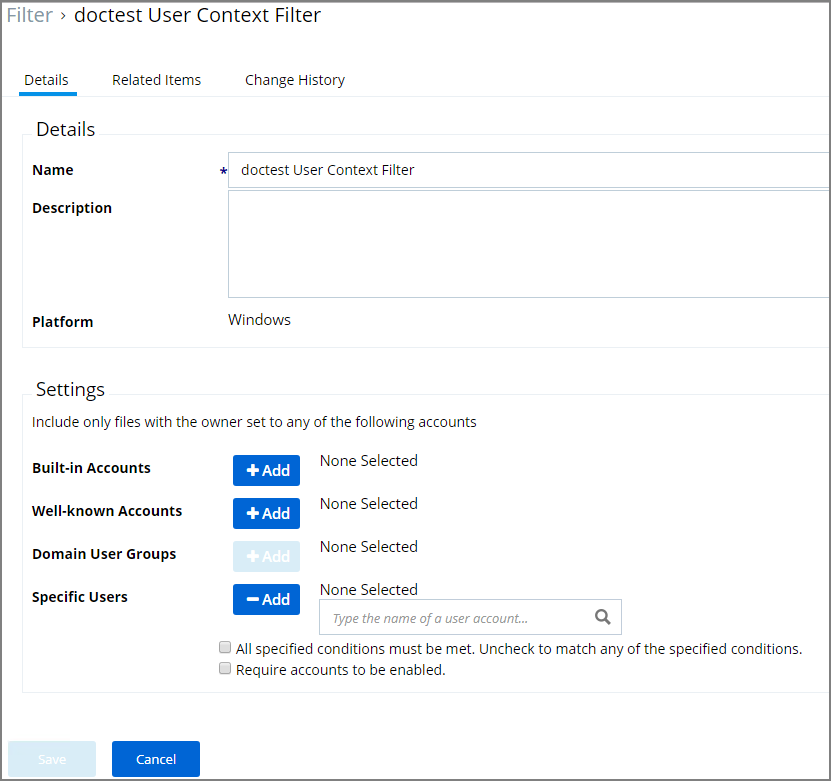
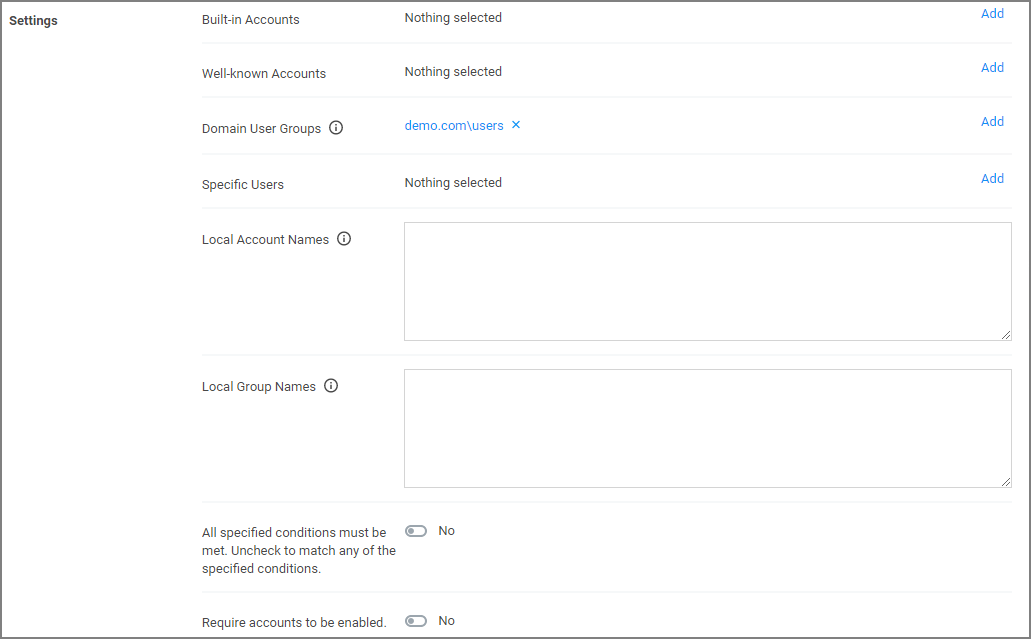
#246231: updates to user context filter topic; removed stale screen shots in the images folders

diff --git a/admin/filters/types/application/user-context.md b/admin/filters/types/application/user-context.md
@@ -1,5 +1,5 @@
 [title]: # (User Context)
-[tags]: # (sid)
+[tags]: # (sid, active directory, azure AD)
 [priority]: # (2)
 # Using User Context Filters
 
@@ -14,24 +14,36 @@ The User Context Filters are part of the Application Filter templates listed for
 
 This filter is available for both Windows and macOS systems.
 
+On Windows 10 endpoints the filter ensures that Azure AD security groups can be targeted within Windows-based User Context Filters computers that are __only__ joined to Azure AD.
+
 ## On-Premise
 
 For Privilege Manager on-premises the __User Context Filter__ can be used after the Active Directory synchronization completes. When creating and editing the filter, add any 
 
 * Build-in Accounts,
 * Well-known Accounts, and/or
-* Domain User Groups, or
-* Specific Users.
+* Domain User Groups, for which you may need to run the Active Directory sync task to update available users and groups, or
+* Specific Users,
+* Local Account Names,
+* Local Group Names
 
 to specifically select user context.
 
-Then select if __ALL__ conditions must be met. Leave the box unchecked to match __ANY__. You can also specify, if accounts must be enabled to be targeted. This is an important checkbox to set if specific users have been added.
+Then set the __All specified conditions must be met__ switch to __Yes__, if __ALL__ conditions must be met. Leave the switch set to __No__ to match __ANY__.
+
+You can also specify, if accounts must be enabled to be targeted. This is an important checkbox to set if specific users have been added.
 
 ## Cloud
 
-For Privilege Manager cloud the __User Context Filter via SID__ can be used if (Azure) AD synchronization has not been set up but the SID of the group is known. When creating the filter, enter the
-
-* Group SID , and
-* Group Name, to name the group if it does not exist.
+For Privilege Manager cloud the __User Context Filter via SID__ can be used if (Azure) AD synchronization has not been set up but the SID of the group is known. When creating the filter, 
 
 ![Create User Context Filter via SID](images/user_context_2.png "Create User Context Filter via SID")
+
+enter the
+
+* __Group SID__, which you can find under the Global Account Details for a given resource:
+
+  ![alt](images/global-acct-details.png "Global Account Details showing SID for selected resources")
+* __Group Name__, to name the group if it does not exist.
+
+![alt](images/user_context_1.png "User Context Filter via SID with Domain\Groupname specification")
